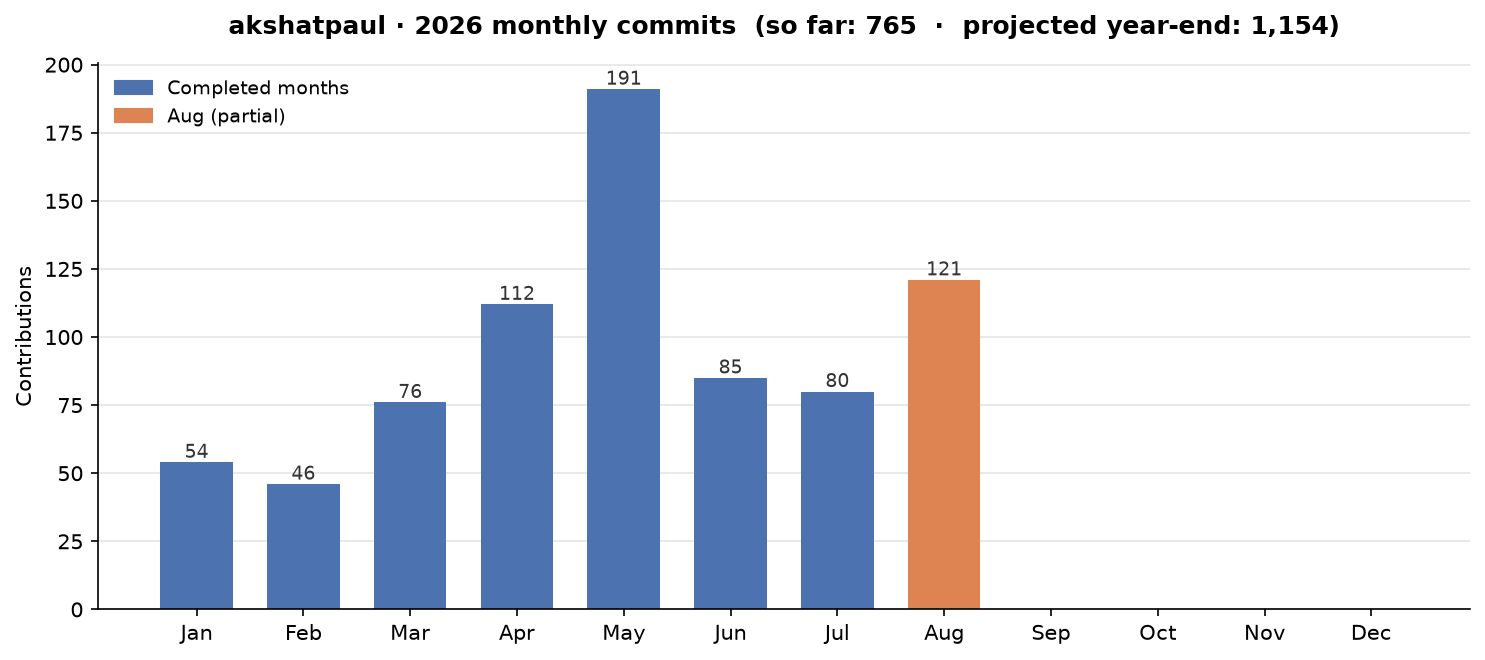
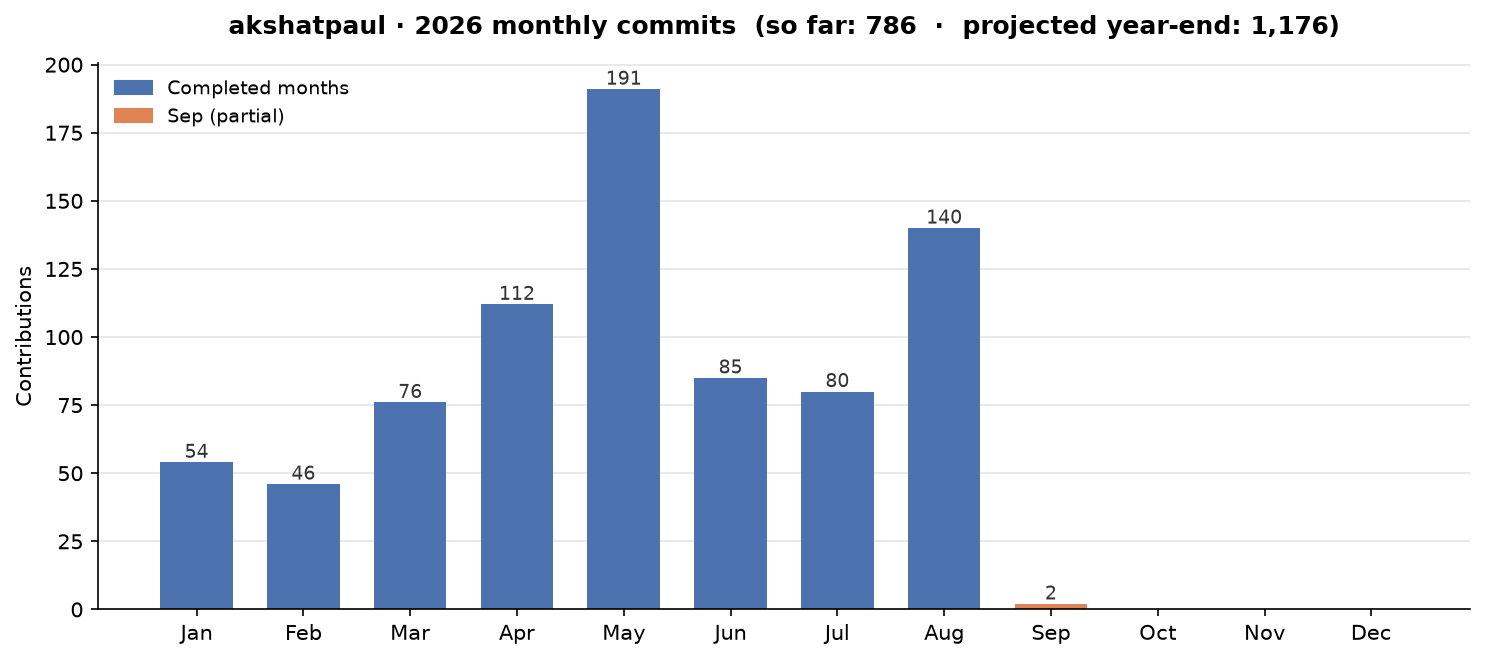
Refresh commit stats via local pre-commit hook
GitHub Actions is billing-locked account-wide, so the scheduled
"Update commit stats" workflow can't run. Add .githooks/pre-commit
which regenerates the chart + stats.md + README block from the live
GitHub contribution API on each commit to main (fail-soft, once per
UTC day). Enable per clone with: git config core.hooksPath .githooks

Claude-Session: https://claude.ai/code/session_01JSQ9FShTd1xKsH5gAQcvg3

diff --git a/README.md b/README.md
@@ -114,11 +114,11 @@
 </p>
 
 <!-- STATS:START -->
-- **Commits so far (2026):** 765 over 242 days
-- **Daily average:** 3.16 commits/day
-- **Projected 2026 year-end total:** 1,154 commits
+- **Commits so far (2026):** 786 over 244 days
+- **Daily average:** 3.22 commits/day
+- **Projected 2026 year-end total:** 1,176 commits
 
-_Last updated: 2026-08-30 12:10 UTC_
+_Last updated: 2026-09-01 12:37 UTC_
 <!-- STATS:END -->
 
 <p align="center">

diff --git a/stats.md b/stats.md
@@ -1,5 +1,5 @@
-- **Commits so far (2026):** 765 over 242 days
-- **Daily average:** 3.16 commits/day
-- **Projected 2026 year-end total:** 1,154 commits
+- **Commits so far (2026):** 786 over 244 days
+- **Daily average:** 3.22 commits/day
+- **Projected 2026 year-end total:** 1,176 commits
 
-_Last updated: 2026-08-30 12:10 UTC_
+_Last updated: 2026-09-01 12:37 UTC_
